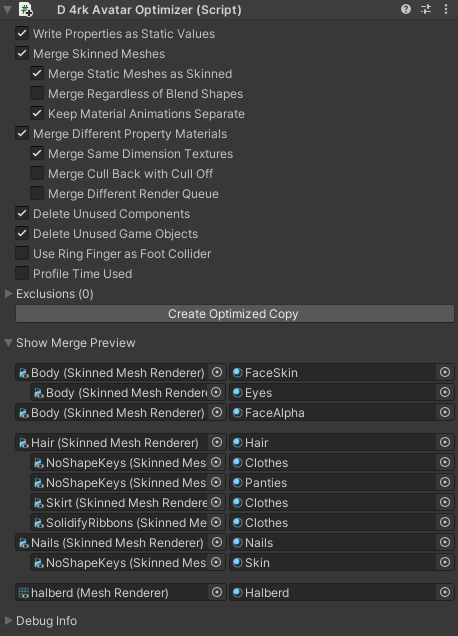
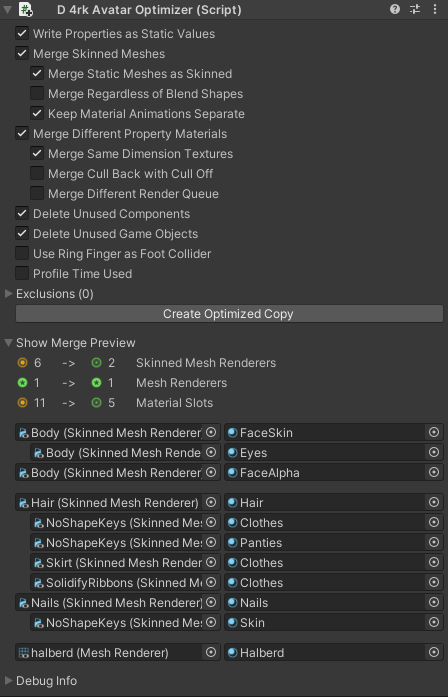
update readme for version 1.3

diff --git a/README.md b/README.md
@@ -92,7 +92,11 @@ In addition to the selected optimizations there are some optimizations that are 
 * Remove illegal avatar components.
 * Remove everything with the EditorOnly tag.
 ## Show Merge Preview
-Shows a preview of how meshes and materials would get merged. Resulting meshes are separated by spaces. Materials that get merged together are indented. In the example image you can see that Body/Eyes would get merged with Body/FaceSkin.
+Shows a preview of how meshes and materials would get merged.
+
+First it shows the original and post merge counts and performance ranks for skinned meshes, meshes & material slots.
+
+Then in the detailed view, resulting meshes are separated by spaces. Materials that get merged together are indented. In the example image you can see that Body/Eyes would get merged with Body/FaceSkin.
 ## Show Debug Info
 Shows debug information about how the optimizer is understanding the avatar.
 ### Unparsable Materials

diff --git a/CHANGELOG.md b/CHANGELOG.md
@@ -1,4 +1,4 @@
-## Next Version
+## v1.3
 ### Features
 * Added perf rank change indicators to the Merge Preview foldout.
 
